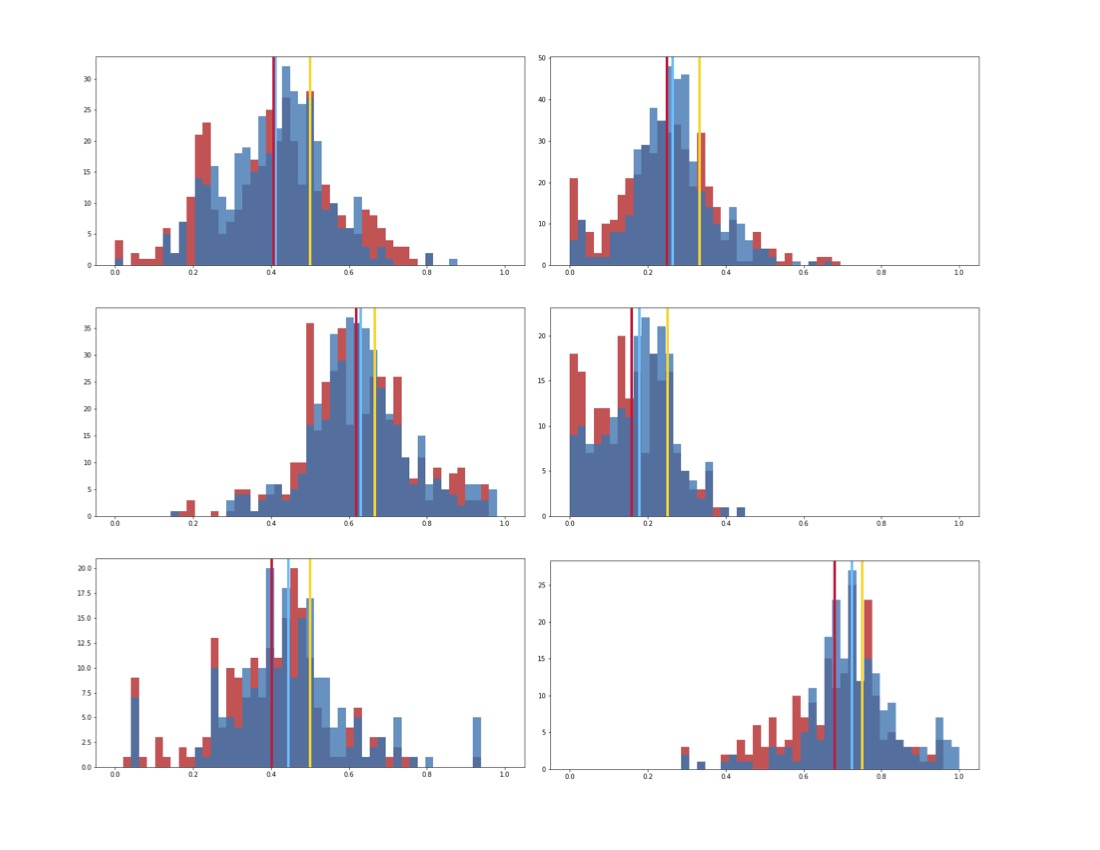
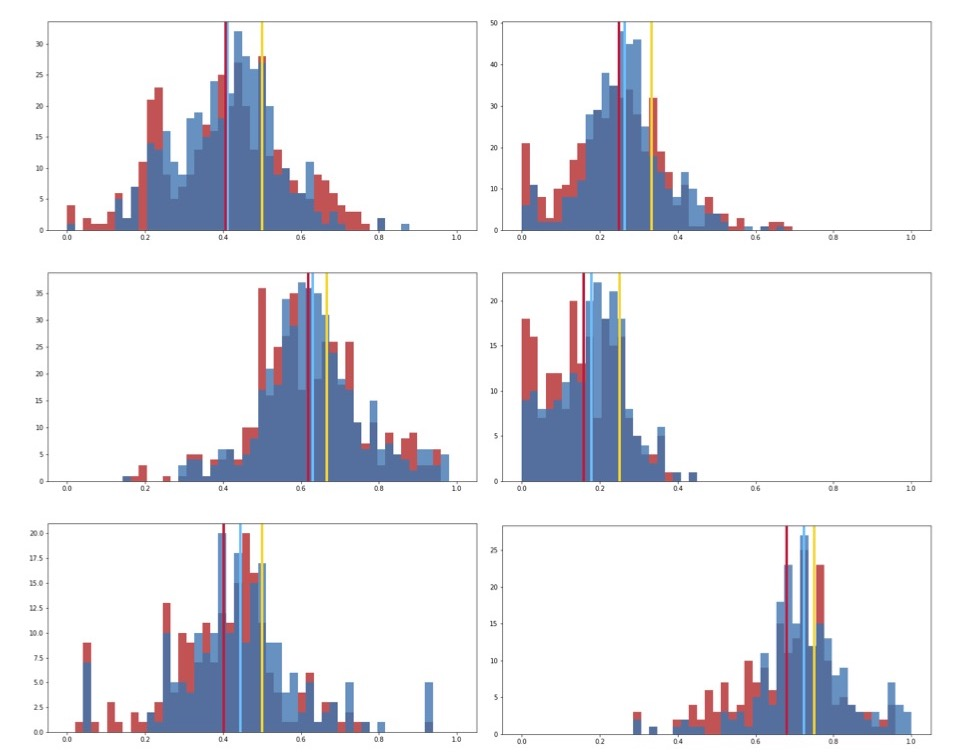
Readme update

diff --git a/README.md b/README.md
@@ -20,9 +20,7 @@ Project Type: Type 1
 
 ### 1.2 Hypothesis: The pit stops are evenly distributed
 
-![](https://i.imgur.com/Pej6HqC.jpg)
-
-We want to find if the pit stops are evenly distributed, since 
+![](https://i.imgur.com/xPSq6wV.jpg)
 
 As shown, for each number of pit stops a team chose for the entire race, there appears to be a pattern in when they chose to pit stop. 
 
@@ -38,9 +36,14 @@ Learning the distribution of each group of time points follows and given the fac
 
 ### 1.3 Hypothesis: Evenly distributed pit stops give better race results
 
-![](https://i.imgur.com/A0KTICx.jpg)
+![](https://i.imgur.com/Bqt9pgr.jpg)
 
+We are also interested in whether the racing results are influenced by the pit stop distributing strategies, so we hypothesize that the evenly distributed pit stops give better race results. 
 
+From the plots above, we can tell that the pit distributions of the higher ranking results are more evenly distributed across the entire race than the lower ranking results. The differences are also statistically significant given an alpha of 0.05 for the first and the last pit stop if the driver pits three times in a race.
+
+Thus, we concluded that we accept the hypothesis that the evenly distributed pit stops give better racing results.
+ 
 
 
 
